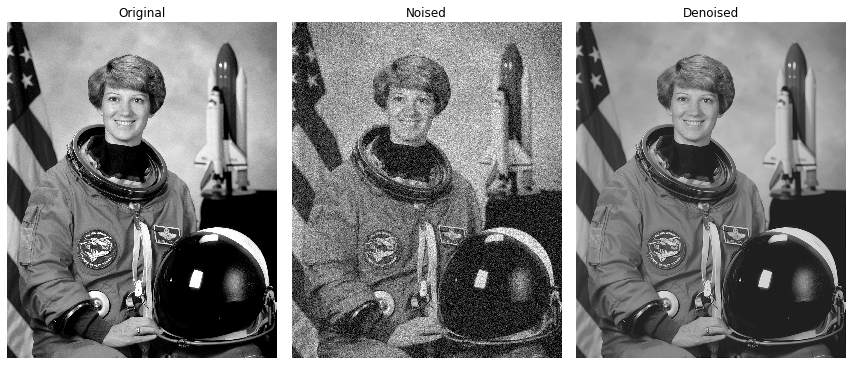
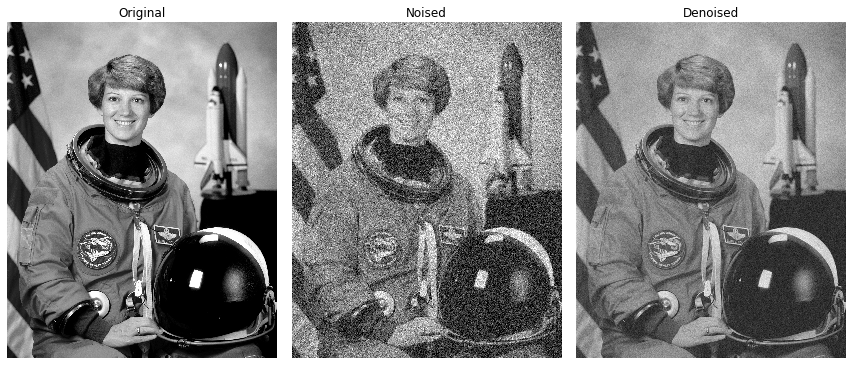
update result img
previously used a wrong parameter which the orginal img has been passed in. Currently the noised img will be passed in.

diff --git a/denoise/unsupervised-wiener/main.py b/denoise/unsupervised-wiener/main.py
@@ -13,7 +13,7 @@ def main():
     psf = np.ones((5, 5)) / 25
     noised_img = conv2(img, psf, 'same')
     noised_img += 0.7 * noised_img.std() * np.random.standard_normal(noised_img.shape)
-    deconvolved, _ = unsupervised_wiener(img, psf)
+    deconvolved, _ = unsupervised_wiener(noised_img, psf)
     fig, ax = plt.subplots(nrows=1, ncols=3, figsize=(12, 5),
                            sharex=True, sharey=True)
     plt.gray()
